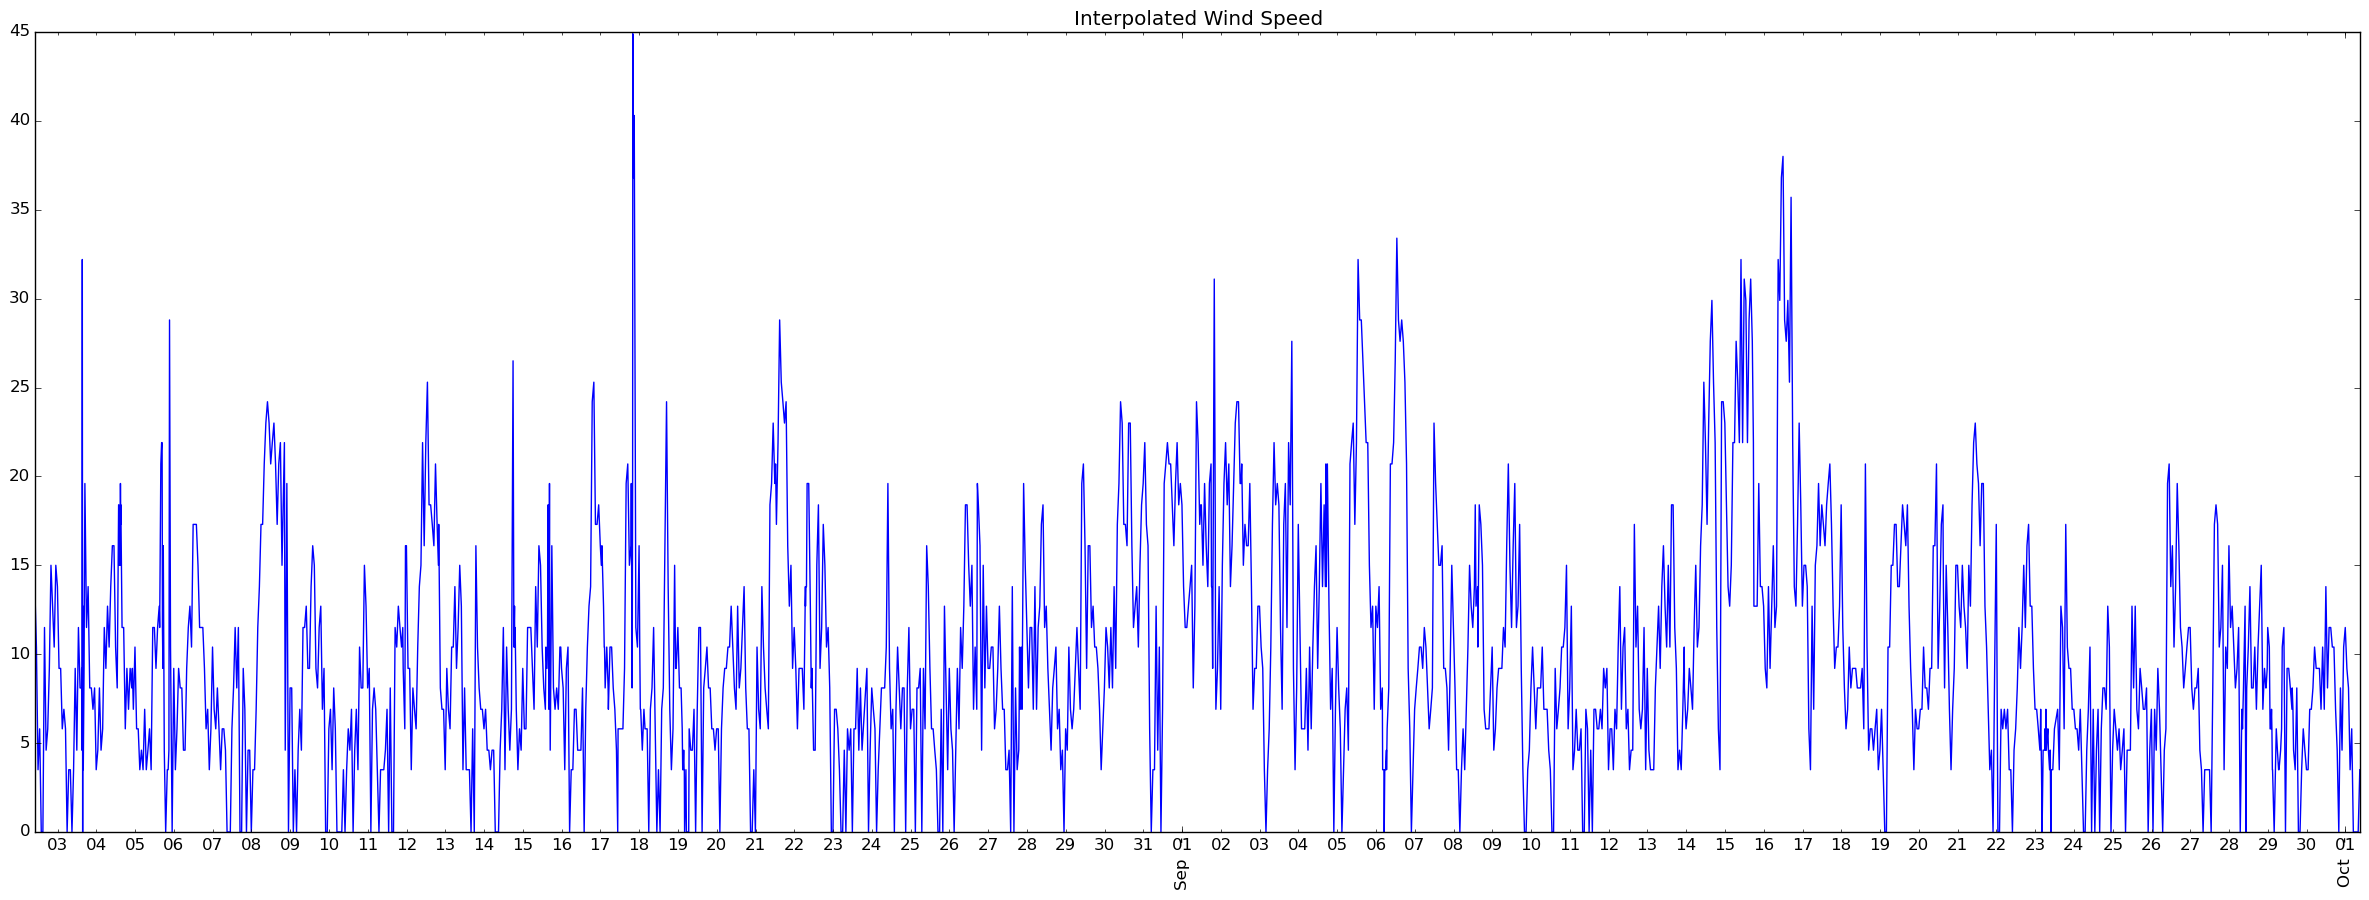
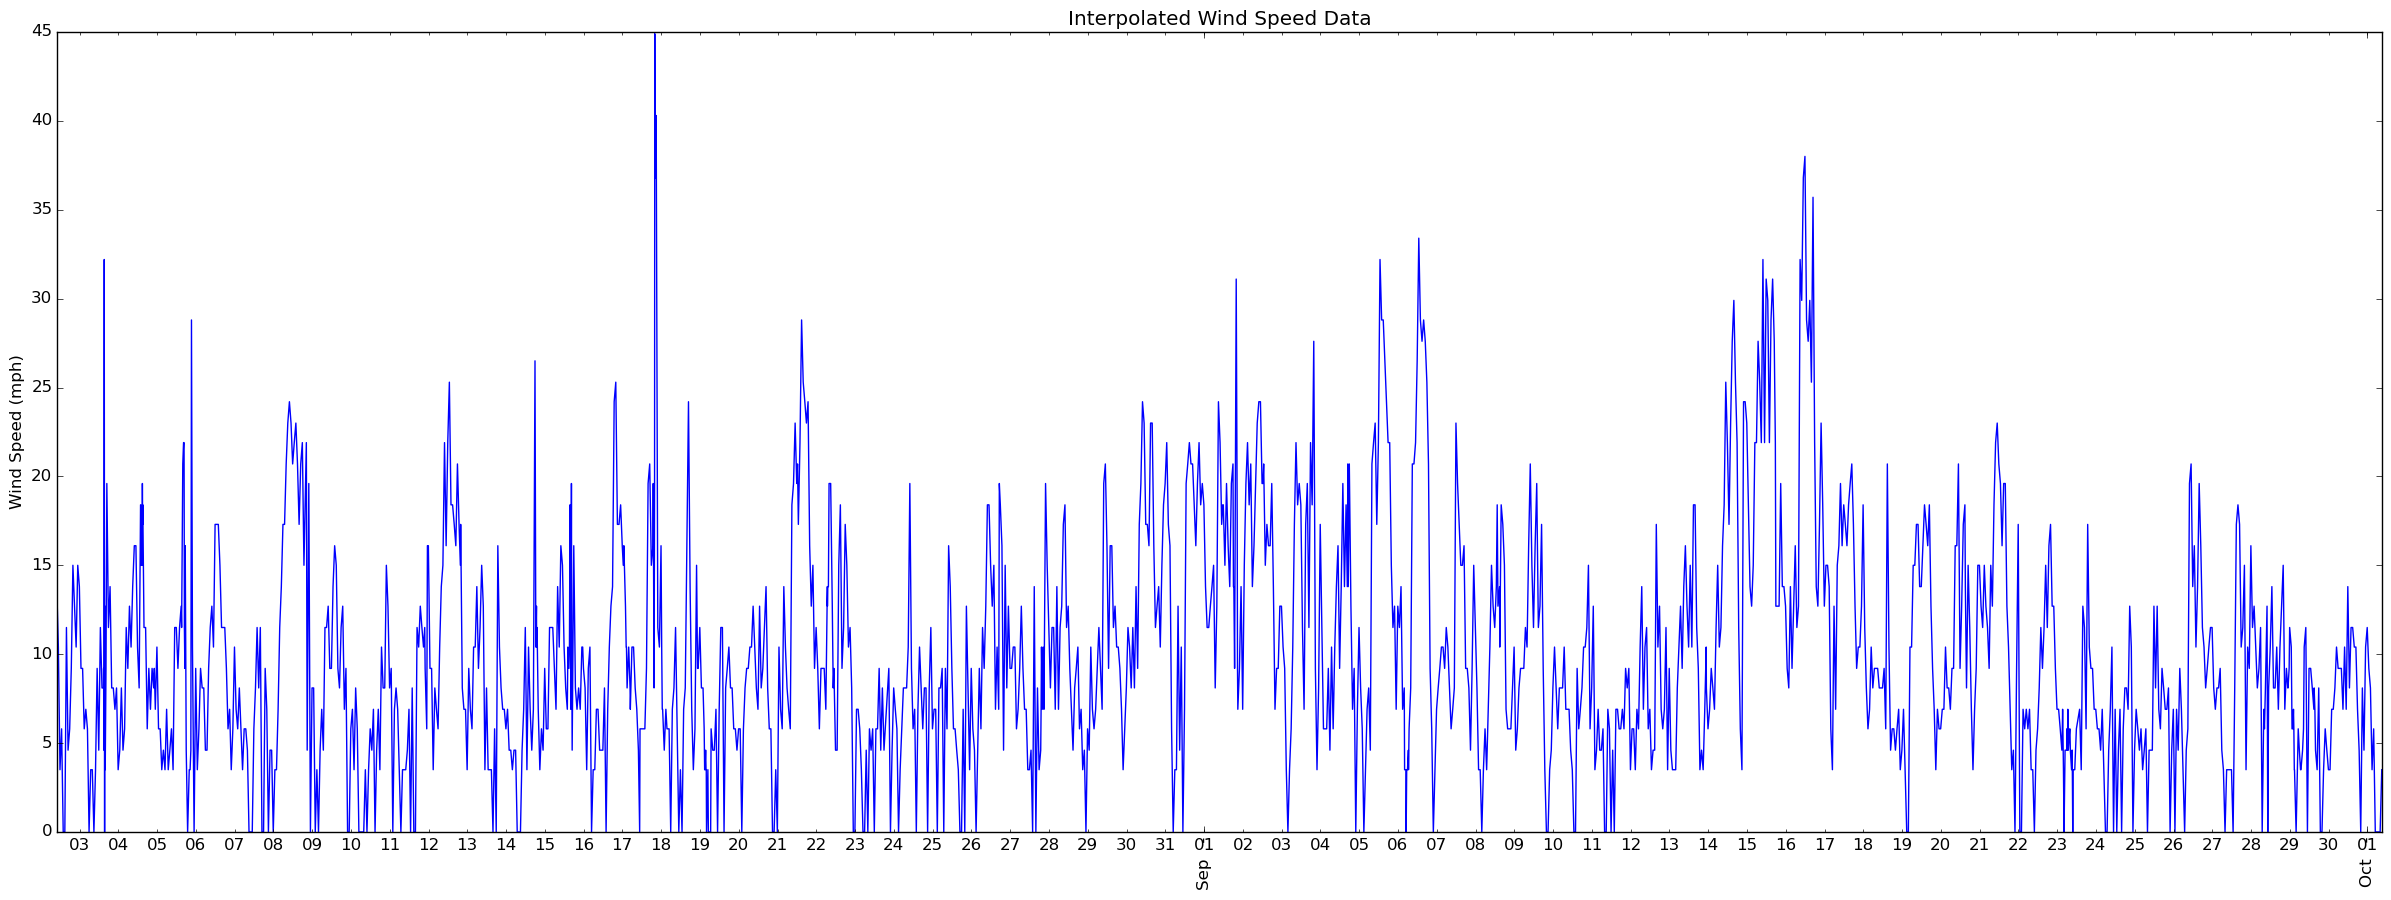
added new plot, added title

diff --git a/project4/plotting.py b/project4/plotting.py
@@ -64,7 +64,8 @@ def part_one(data):
 
     temp_axis.set_title('Temperature')
     temp_axis.set_ylabel('Temperature ($^\circ$F)')
-    jwind_axis.set_title('Interpolated Wind Speed')
+    jwind_axis.set_title('Interpolated Wind Speed Data')
+    jwind_axis.set_ylabel('Wind Speed (mph)')
     wind_axis.set_ylabel('Wind Speed (mph)')
     wind_axis.set_title('Wind Speed')
     wind_axis.set_ylabel('Wind Speed (mph)')
